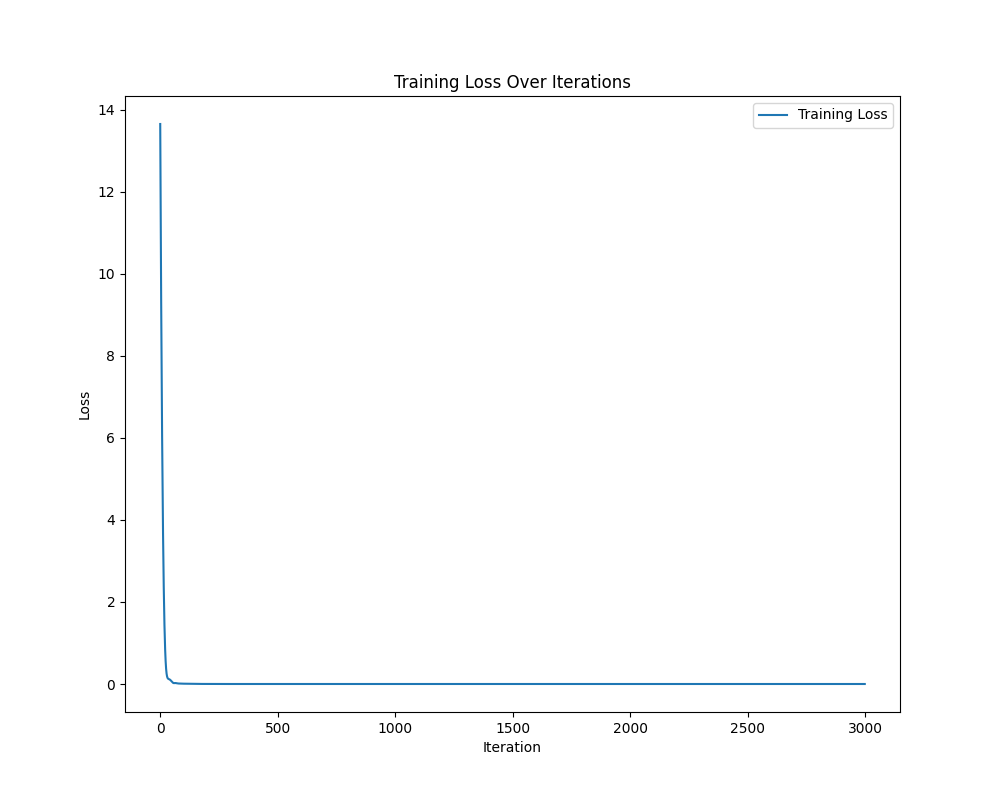
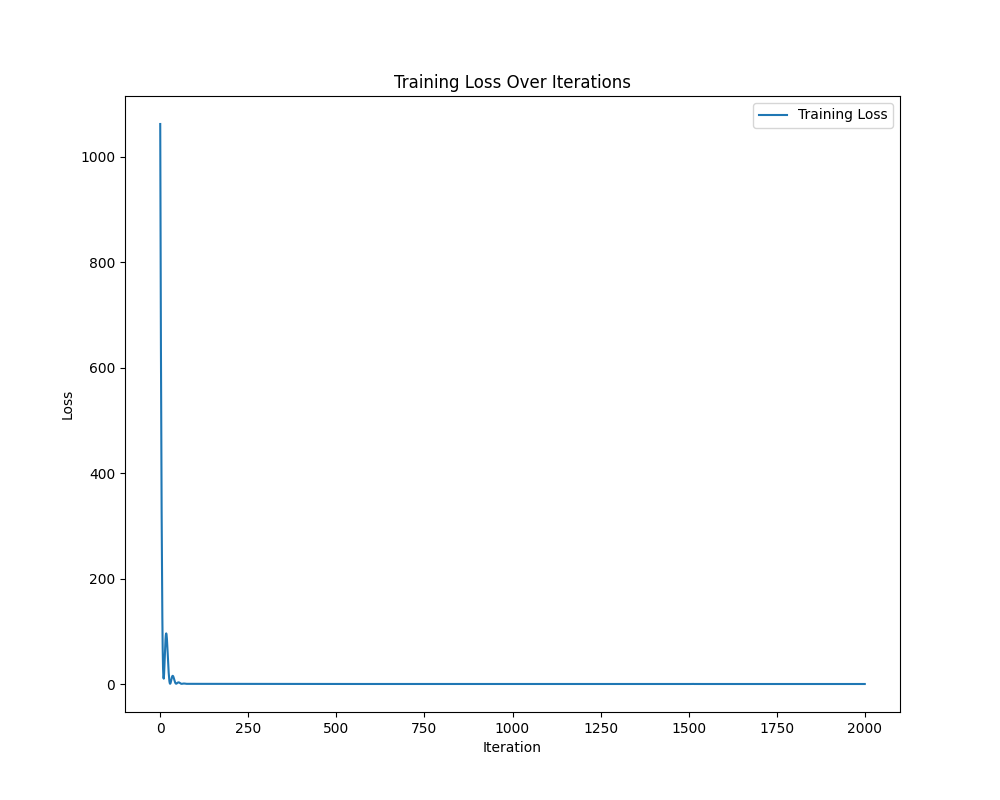
‘new’

diff --git a/pde_solver.py b/pde_solver.py
@@ -1,25 +1,39 @@
 import numpy as np
 import matplotlib.pyplot as plt
 import tensorflow as tf
+from tensorflow.keras.layers import Layer
 import math
 
-# Set the default floating-point dtype to float64
 tf.keras.backend.set_floatx('float64')
 
 def sine_activation(x):
     return tf.sin(2 * math.pi * x)
 
+class SineActivation(Layer):
+    def __init__(self):
+        super(SineActivation, self).__init__()
+
+    def call(self, inputs):
+        return tf.sin(2*math.pi*inputs)
+
 NN = tf.keras.models.Sequential([
-    tf.keras.layers.Input((1,)),
-    tf.keras.layers.Dense(units=32, activation=sine_activation),
-    tf.keras.layers.Dense(units=1)
-])
+        tf.keras.layers.Input((1,)),
+        SineActivation(),
+        tf.keras.layers.Dense(units=64, activation=sine_activation),
+        tf.keras.layers.Dense(units=1)
+    ])
 
 NN.summary()
 
 optm = tf.keras.optimizers.Adam(learning_rate=0.001)
 
-def ode_system(t, net):
+def rho_sin(t):
+    return tf.sin(2*math.pi*t)/4
+
+
+
+
+def ode_system(t, rho, net):
     t = tf.reshape(t, [-1, 1])
     t_0 = tf.zeros((1, 1), dtype=tf.float64)
     t_1 = tf.ones((1, 1), dtype=tf.float64)
@@ -34,13 +48,12 @@ def ode_system(t, net):
 
     u_tt = tape1.gradient(u_t, t)
     u_t2 = 2 * u * u_t  # Chain rule for derivative of u*u with respect to t
-
-    ode_loss = - u_tt + u_t2 + tf.sin(t/10)
+    ode_loss = - u_tt + u_t2   # for non-trivial solution, add rho(t)
     IC_loss = net(t_0) - zeros
     EC_loss = net(t_1) - zeros
     BC_loss = net(t_1) - net(t_0)
 
-    square_loss = tf.square(ode_loss) + tf.square(BC_loss)
+    square_loss = tf.square(ode_loss) + tf.square(IC_loss)
     total_loss = tf.reduce_mean(square_loss)
 
     del tape1  # Clean up
@@ -50,9 +63,11 @@ def ode_system(t, net):
 train_t = np.linspace(0, 1, 1001).reshape(-1, 1).astype(np.float64)
 train_loss_record = []
 
-for itr in range(3000):
+optm = tf.keras.optimizers.Adam(learning_rate=0.001)
+
+for itr in range(2001):
     with tf.GradientTape() as tape:
-        train_loss, _ = ode_system(tf.constant(train_t), NN)
+        train_loss, _ = ode_system(tf.constant(train_t),rho_sin, NN)
         train_loss_record.append(train_loss.numpy())
 
         grad_w = tape.gradient(train_loss, NN.trainable_variables)
@@ -61,7 +76,11 @@ for itr in range(3000):
     if itr % 1000 == 0:
         print(train_loss.numpy())
 
+test_t = np.linspace(0, 1, 100).astype(np.float64)
+pred_u = NN.predict(test_t).ravel()
+
 # Plot training loss
+
 plt.figure(figsize=(10, 8))
 plt.plot(train_loss_record, label='Training Loss')
 plt.xlabel('Iteration')
@@ -69,6 +88,7 @@ plt.ylabel('Loss')
 plt.legend()
 plt.title('Training Loss Over Iterations')
 plt.savefig("training_loss_plot.png")  # Save plot
+
 
 # Generate and plot predictions
 test_t = np.linspace(0, 1, 100).astype(np.float64)
@@ -125,7 +145,7 @@ def Lipschitz_constant(t, net):
 # Function to calculate the residuals
 def calculate_residuals(t, net):
     t_tensor = tf.constant(tf.reshape(t, [-1, 1]), dtype=tf.float64)
-    _, residuals = ode_system(t_tensor, net)
+    _, residuals = ode_system(t_tensor,rho_sin, net)
     return residuals
 
 
@@ -136,7 +156,6 @@ x_i = x_points
 
 # Calculate the Lipschitz constant
 lipschitz_constant = Lipschitz_constant(x_i, NN)
-print(f"Lipschitz constant: {lipschitz_constant}")
 
 # Calculate the difference bound
 error_bounds = []
@@ -151,24 +170,39 @@ residuals = calculate_residuals(x_i, NN).numpy().ravel()
 # |F(f_approx)(x)| < | F(f)(x_i)| (Known) + | F(f)(x) - F(f)(x_i) |
 total_errors = np.abs(residuals) + error_bounds[:len(residuals)]
 
+errors_in_l2 = np.sum(total_errors ** 2) * 1/1000
+print(f"Error in L2: {errors_in_l2}")
+
 
 plt.figure(figsize=(10, 8))
-plt.plot(x_points[:len(residuals)], residuals, '--r', label='Residuals')
-plt.plot(x_points[:len(residuals)], error_bounds[:len(residuals)], ':b', label='Error Bound')
-plt.plot(x_points[:len(residuals)], total_errors, '-g', label='Total Error')
+plt.plot(x_points[:len(residuals)], residuals, '--r', label=r'bound for |F($\tilde{f} (x_k)$)|')
+plt.plot(x_points[:len(residuals)], error_bounds[:len(residuals)], ':b', label=r'bound for |$F(\tilde{f})(x_k) - F(\tilde{f})(x)$|')
+plt.plot(x_points[:len(residuals)], total_errors, '-g', label=r'Total Error: $\delta_k$')
 plt.xlabel('x')
-plt.ylabel('F(f_approx)(x)')
+plt.ylabel('y')
 plt.legend()
-plt.title('Prediction and Error Bound')
+plt.title('Error Analysis(n = 1000)')
 plt.savefig("Error.png")
 
 NN.save('best_model.h5')
 
 plt.figure(figsize=(10, 8))
-plt.plot(test_t, pred_u, '--r', label='Prediction')
-plt.plot(test_t, 0 * test_t, '-k', label='zero_solution')
+plt.plot(test_t, pred_u, '-.r', label='Approximate solution')
+#plt.plot(test_t, 0 * test_t, '--k', label='zero_solution')
 plt.legend()
-plt.xlabel('t')
-plt.ylabel('u')
-plt.title('Prediction Plot')
+plt.xlabel('x')
+plt.ylabel(r'$\tilde{f} (x)$')
+plt.title('Approximate solution Plot')
 plt.savefig("PINN_result.png")  # Save plot
+
+'''
+plt.figure(figsize=(10, 8))
+#plt.plot(test_t, 0 * test_t , '-k', label='Zero Solution', linewidth=3, alpha=0.8)
+plt.plot(test_t, pred_u, '--r', label='Approximate solution', linewidth=1, alpha=1)
+plt.ylim(-1, 1)
+plt.legend()
+plt.xlabel('x')
+plt.ylabel(r'$\tilde{f} (x)$')
+plt.title('Approximate solution Plot')
+plt.savefig("result_axis.png")
+'''
